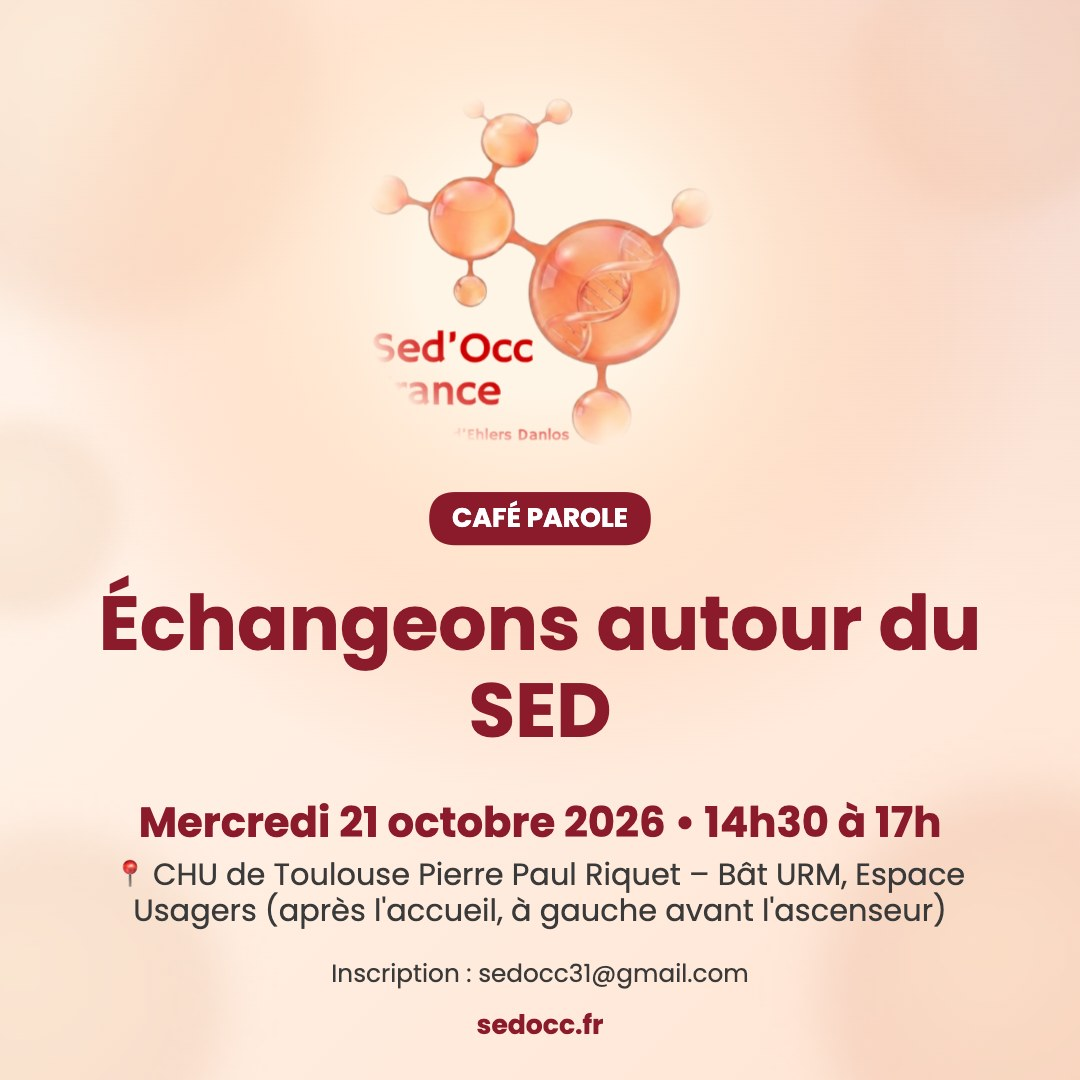
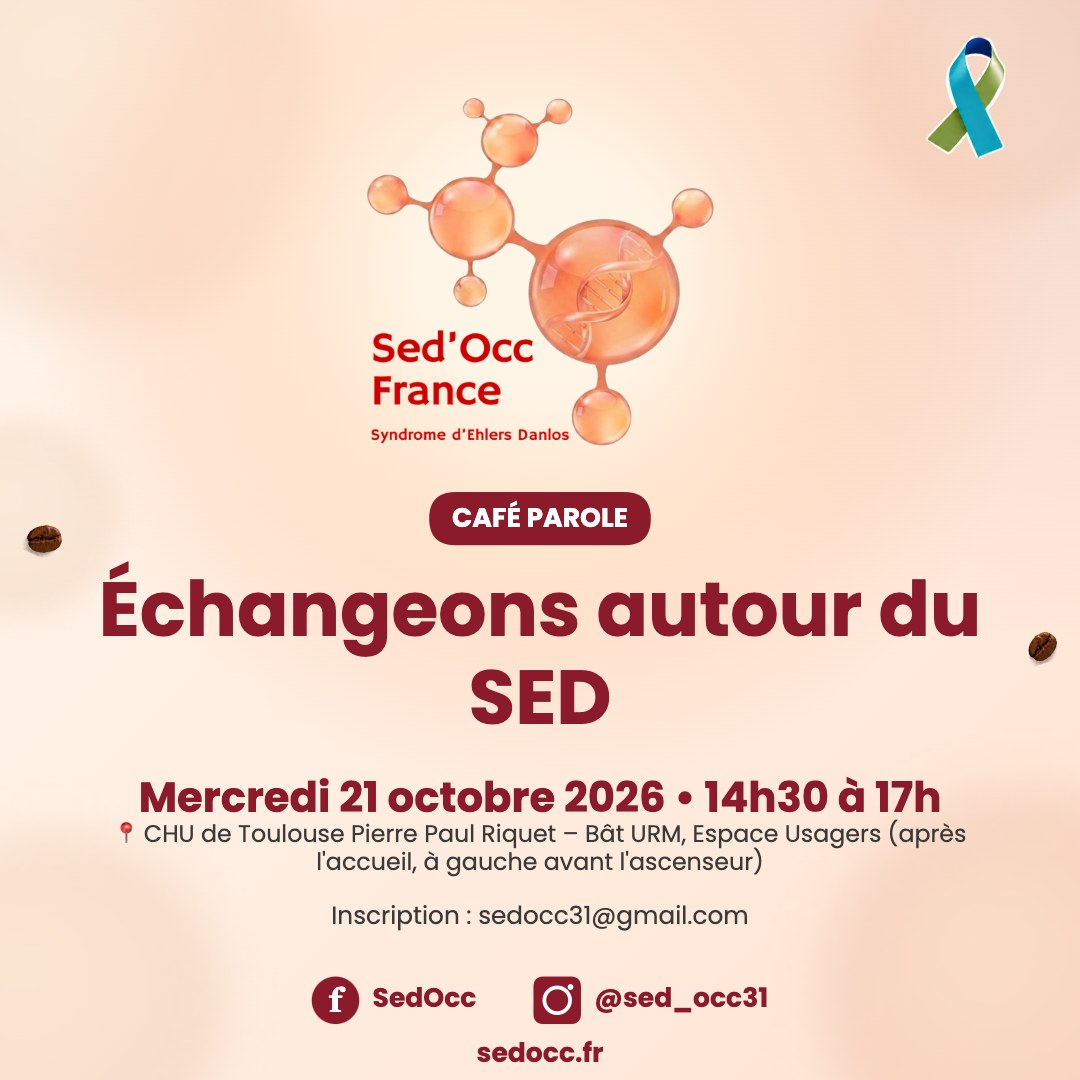
Corriger le generateur de visuels et ajouter le decor Cafe Parole
- Le logo n'etait plus rogne par un masque circulaire qui effacait
  France et le sous-titre (le PNG a deja un fond transparent).
- Nouvelle case Decor Cafe Parole : ruban maladies rares, zebre et
  grains de cafe repris du vrai flyer, poses hors de la zone de texte.
- Les icones reseaux sociaux etaient dessinees hors du canvas (jamais
  visibles) ; repositionnees au-dessus de sedocc.fr et le pied de
  page s'ajuste maintenant si le texte (lieu/cta) est long, pour ne
  plus jamais chevaucher le contenu.
- Regenere les deux visuels cafe parole d'octobre avec ces corrections.

diff --git a/admin.html b/admin.html
@@ -408,6 +408,12 @@
                         </div>
                     </div>
 
+                    <div class="form-group">
+                        <label style="font-weight:400;display:flex;align-items:center;gap:6px;cursor:pointer;">
+                            <input type="checkbox" id="vis-decor-cafe" onchange="updateVisuel()"> Décor Café Parole (ruban, zèbre, grains de café)
+                        </label>
+                    </div>
+
                     <button class="btn btn-primary" onclick="downloadVisuel()" style="width:100%;font-size:1.1rem;padding:14px;">⬇ Télécharger en PNG haute qualité</button>
                 </div>
 
@@ -3748,6 +3754,20 @@ PARTNER_LOGO_OPTIONS.forEach(function(p) {
     img.src = p.src;
 });
 
+// Petits éléments de décor "Café Parole" (ruban maladies rares, zèbre, grain de café),
+// repris du vrai flyer café parole, affichables via la case "Décor Café Parole"
+const decorCafeImages = {};
+[
+    ['ruban', 'images/generateur/ruban-maladies-rares.png'],
+    ['zebre', 'images/generateur/zebre.png'],
+    ['grain', 'images/generateur/grain-cafe.png']
+].forEach(function(entry) {
+    const img = new Image();
+    img.crossOrigin = 'anonymous';
+    img.onload = function() { decorCafeImages[entry[0]] = img; if (typeof updateVisuel === 'function') updateVisuel(); };
+    img.src = entry[1];
+});
+
 // Génère les cases à cocher "logos partenaires" depuis PARTNER_LOGO_OPTIONS
 function renderPartnerLogoCheckboxes() {
     const container = document.getElementById('vis-logos-partenaires');
@@ -3928,27 +3948,27 @@ function drawVisuel(ctx, fmt, style) {
             ctx.fill();
         }
 
-        // 4. Logo avec masque circulaire FEUTRÉ (bords flous → se fond dans le fond)
-        // On dessine d'abord dans un canvas temporaire, on applique un gradient mask, puis on le pose
-        const tmp = document.createElement('canvas');
-        tmp.width = logoSize;
-        tmp.height = logoSize;
-        const tmpCtx = tmp.getContext('2d');
-        // Dessine le logo
-        tmpCtx.drawImage(visuelLogo, 0, 0, logoSize, logoSize);
-        // Applique un masque radial (cercle flouté sur les bords)
-        tmpCtx.globalCompositeOperation = 'destination-in';
-        const maskGrad = tmpCtx.createRadialGradient(logoSize / 2, logoSize / 2, 0, logoSize / 2, logoSize / 2, logoSize / 2);
-        maskGrad.addColorStop(0,    'rgba(0,0,0,1)');
-        maskGrad.addColorStop(0.65, 'rgba(0,0,0,1)');
-        maskGrad.addColorStop(0.85, 'rgba(0,0,0,0.6)');
-        maskGrad.addColorStop(1,    'rgba(0,0,0,0)');
-        tmpCtx.fillStyle = maskGrad;
-        tmpCtx.fillRect(0, 0, logoSize, logoSize);
-        // Pose le logo masqué sur le canvas principal
-        ctx.drawImage(tmp, logoCx - logoSize / 2, logoCy - logoSize / 2);
+        // 4. Logo posé tel quel (le PNG a déjà un fond transparent, pas besoin de le
+        // découper davantage — un masque circulaire rognait le texte "France" / "Danlos"
+        // qui s'étend jusque dans les coins du logo)
+        ctx.drawImage(visuelLogo, logoCx - logoSize / 2, logoCy - logoSize / 2, logoSize, logoSize);
 
         logoBottomY = logoCy + logoSize / 2 + 35 * scale;
+    }
+
+    // ----- Décor "Café Parole" optionnel (ruban maladies rares, grains de café) -----
+    // Repris du vrai flyer café parole. Le ruban va dans le coin (zone toujours libre, hors du
+    // texte). Les grains vont dans la marge latérale (hors de la largeur de retour à la ligne du
+    // texte, donc jamais chevauchés quelle que soit la longueur du contenu). Le zèbre, lui, est
+    // dessiné plus bas une fois le bas du texte connu (voir contentBottomY) pour ne jamais le
+    // chevaucher non plus.
+    const decorCafeOn = !!(document.getElementById('vis-decor-cafe') && document.getElementById('vis-decor-cafe').checked);
+    if (decorCafeOn) {
+        if (decorCafeImages.ruban) drawDecorImage(ctx, decorCafeImages.ruban, W * 0.90, H * 0.09, 85 * scale, 8);
+        if (decorCafeImages.grain) {
+            drawDecorImage(ctx, decorCafeImages.grain, W * 0.04, H * 0.50, 38 * scale, 25);
+            drawDecorImage(ctx, decorCafeImages.grain, W * 0.965, H * 0.60, 34 * scale, -18);
+        }
     }
 
     // ----- Bloc texte sous le logo, dans la moitié inférieure -----
@@ -3971,7 +3991,7 @@ function drawVisuel(ctx, fmt, style) {
         ctx.textAlign = 'center';
         ctx.textBaseline = 'middle';
         ctx.fillText(typeUpper, W / 2, cursorY + 2 * scale);
-        cursorY += bh / 2 + 50 * scale;
+        cursorY += bh / 2 + 36 * scale;
     }
 
     // Titre principal
@@ -3984,7 +4004,7 @@ function drawVisuel(ctx, fmt, style) {
         const lineH = titreFontSize * 1.15;
         const titreLines = wrapText(ctx, titre, W - padX * 2);
         titreLines.forEach((l, i) => ctx.fillText(l, W / 2, cursorY + i * lineH));
-        cursorY += titreLines.length * lineH + 40 * scale;
+        cursorY += titreLines.length * lineH + 28 * scale;
     }
 
     // Date + heure
@@ -3994,17 +4014,24 @@ function drawVisuel(ctx, fmt, style) {
         let dateText = date;
         if (heure) dateText += ' • ' + heure;
         ctx.fillText(dateText, W / 2, cursorY);
-        cursorY += 60 * scale;
+        cursorY += 46 * scale;
     }
 
-    // Lieu
+    // Lieu — police réduite automatiquement si le texte est long (adresse + précisions),
+    // pour ne pas pousser le reste du visuel (icônes, sedocc.fr) hors du cadre.
     if (lieu) {
         ctx.fillStyle = colorText;
-        ctx.font = (32 * scale) + 'px Poppins, sans-serif';
-        const lieuLines = wrapText(ctx, '📍 ' + lieu, W - padX * 2);
-        const lineH = 38 * scale;
+        let lieuFontSize = 32 * scale;
+        ctx.font = lieuFontSize + 'px Poppins, sans-serif';
+        let lieuLines = wrapText(ctx, '📍 ' + lieu, W - padX * 2);
+        if (lieuLines.length > 1) {
+            lieuFontSize = 25 * scale;
+            ctx.font = lieuFontSize + 'px Poppins, sans-serif';
+            lieuLines = wrapText(ctx, '📍 ' + lieu, W - padX * 2);
+        }
+        const lineH = lieuFontSize * 1.18;
         lieuLines.forEach((l, i) => ctx.fillText(l, W / 2, cursorY + i * lineH));
-        cursorY += lieuLines.length * lineH + 30 * scale;
+        cursorY += lieuLines.length * lineH + 26 * scale;
     }
 
     // CTA
@@ -4016,10 +4043,11 @@ function drawVisuel(ctx, fmt, style) {
         const ctaLines = wrapText(ctx, cta, W - padX * 2);
         const lineH = 32 * scale;
         ctaLines.forEach((l, i) => ctx.fillText(l, W / 2, cursorY + i * lineH));
-        cursorY += ctaLines.length * lineH + 20 * scale;
+        cursorY += ctaLines.length * lineH + 16 * scale;
     }
 
     // Lien (en évidence avec un cadre)
+    let lienBottomExtra = 0;
     if (lien) {
         ctx.font = 'bold ' + (28 * scale) + 'px Poppins, sans-serif';
         const lw = ctx.measureText(lien).width;
@@ -4038,7 +4066,12 @@ function drawVisuel(ctx, fmt, style) {
         ctx.textAlign = 'center';
         ctx.textBaseline = 'middle';
         ctx.fillText('🔗 ' + lien, W / 2, cursorY + lh / 2);
+        lienBottomExtra = lh + 10 * scale;
     }
+
+    // Bas réel du contenu qui vient d'être posé (titre/date/lieu/cta/lien) : sert à repousser
+    // le pied de page si le texte est long, pour ne jamais le faire chevaucher avec les icônes.
+    const contentBottomY = cursorY + lienBottomExtra;
 
     // ----- Logos partenaires optionnels, au-dessus du pied de page -----
     const showReseaux = reseauxMode === 'oui' || (reseauxMode === 'auto' && !isWide);
@@ -4047,6 +4080,24 @@ function drawVisuel(ctx, fmt, style) {
         return cb && cb.checked && partnerLogoImages[p.key];
     });
     const footerReserve = (showReseaux ? 155 : 55) * scale;
+
+    // Zèbre du décor "Café Parole" : posé APRÈS le texte, centré sous celui-ci, jamais avant —
+    // comme ça il ne peut jamais chevaucher le titre/date/lieu quelle que soit leur longueur.
+    // S'il n'y a pas assez de place au-dessus du pied de page (contenu trop long), on le
+    // saute plutôt que de risquer de pousser "sedocc.fr" et les icônes hors du visuel.
+    const zebreSize = 95 * scale;
+    const zebreGap = zebreSize + 35 * scale;
+    const fixedFooterTop = H - padY * 0.45 - footerReserve;
+    const showZebre = decorCafeOn && decorCafeImages.zebre && (contentBottomY + zebreGap + 20 * scale) < fixedFooterTop;
+    if (showZebre) {
+        drawDecorImage(ctx, decorCafeImages.zebre, W / 2, contentBottomY + zebreGap / 2, zebreSize, 0);
+    }
+
+    // Le pied de page reste collé en bas si tout tient ; sinon il descend sous le contenu
+    // (plutôt que de le chevaucher), au prix d'un léger débord accepté pour les cas extrêmes.
+    // 124*scale = marge de sécurité pour que le HAUT des icônes (qui dépassent de 72+25px
+    // au-dessus de ce point d'ancrage) reste toujours sous le texte, pas seulement son point d'ancrage.
+    const footerBase = Math.max(H - padY * 0.45, contentBottomY + (showZebre ? zebreGap : 0) + 124 * scale);
     if (activePartnerLogos.length) {
         const logoH = 55 * scale;
         const gap2 = 36 * scale;
@@ -4056,7 +4107,7 @@ function drawVisuel(ctx, fmt, style) {
         });
         const totalW2 = widths.reduce(function(a, b) { return a + b; }, 0) + gap2 * (activePartnerLogos.length - 1);
         let lx2 = (W - totalW2) / 2;
-        const logoRowY = H - padY * 0.45 - footerReserve - logoH;
+        const logoRowY = footerBase - footerReserve - logoH;
         activePartnerLogos.forEach(function(p, i) {
             const img = partnerLogoImages[p.key];
             ctx.drawImage(img, lx2, logoRowY, widths[i], logoH);
@@ -4071,12 +4122,13 @@ function drawVisuel(ctx, fmt, style) {
     ctx.font = 'bold ' + (28 * scale) + 'px Poppins, sans-serif';
     ctx.textAlign = 'center';
     ctx.textBaseline = 'bottom';
-    ctx.fillText('sedocc.fr', W / 2, H - padY * 0.45);
+    ctx.fillText('sedocc.fr', W / 2, footerBase);
 
     // Icônes réseaux sociaux — plus grandes et plus visibles
+    // (positionnées AU-DESSUS de "sedocc.fr", pas en dessous : un "+" ici les poussait hors canvas)
     if (showReseaux) {
-        const iconY = H - padY * 0.45 + 70 * scale;
-        const iconSize = 56 * scale; // 56 au lieu de 36 — beaucoup plus grand
+        const iconY = footerBase - 72 * scale;
+        const iconSize = 50 * scale; // plus grand que la version d'origine (36) mais resserré
         const fbHandle = 'SedOcc';
         const igHandle = '@sed_occ31';
 
@@ -4102,6 +4154,18 @@ function drawVisuel(ctx, fmt, style) {
         ctx.fillStyle = colorPrimary;
         ctx.fillText(igHandle, xPos + iconSize + 14 * scale, iconY);
     }
+}
+
+// Pose une image de décor centrée en (cx, cy), redimensionnée à targetW (hauteur proportionnelle),
+// avec une rotation optionnelle en degrés — utilisé pour le ruban, le zèbre, les grains de café.
+function drawDecorImage(ctx, img, cx, cy, targetW, rotateDeg) {
+    if (!img) return;
+    const targetH = targetW * (img.height / img.width);
+    ctx.save();
+    ctx.translate(cx, cy);
+    if (rotateDeg) ctx.rotate(rotateDeg * Math.PI / 180);
+    ctx.drawImage(img, -targetW / 2, -targetH / 2, targetW, targetH);
+    ctx.restore();
 }
 
 // Icône Facebook (cercle avec f)
